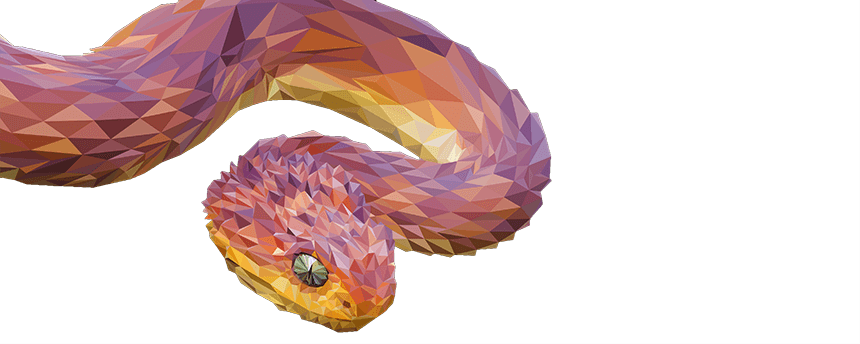
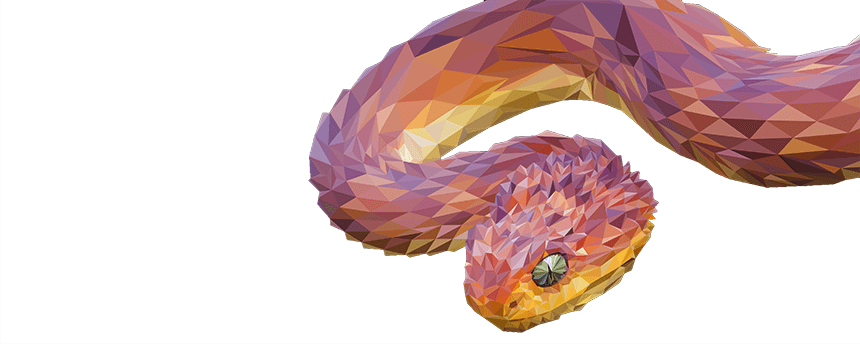
Snake Background fixed

diff --git a/css/style.css b/css/style.css
@@ -39,6 +39,8 @@ h3{
     justify-content: space-evenly;
     align-items: center;
     border-bottom: solid;
+    width: 90%;
+    justify-self: center;
 }
 
 .nav_button {
@@ -88,12 +90,13 @@ h3{
 
 #container_home {
     background: repeating-linear-gradient(0deg, rgba(238, 174, 202, 1) 0%, rgba(148, 187, 233, 1) 100%);
-    padding-left: 20px;
-    padding-right: 20px;
-    height: 100vh;
+    height: 98vh;
     display: grid;
     row-gap: 5px;
-    grid-template-columns: 1fr 90%;
+    padding-left: 20px;
+    padding-right: 20px;
+    padding-bottom: 2vh;
+    grid-template-columns: 1fr 88%;
     grid-template-rows: auto 50px 3fr 2fr;
     grid-template-areas:
         'heu heu'
@@ -110,8 +113,19 @@ h3{
     padding-top: 5%;
 }
 
-#aside_home h2 {
+#aside_home h3 {
+    display: flex;
     margin-bottom: 0px;
+    justify-content: center;
+}
+
+#aside_home ul {
+    margin-top: 8px;
+}
+
+#aside_home li:hover {
+    color: white;
+    text-decoration: underline;
 }
 
 
@@ -167,15 +181,16 @@ h3{
 
 #animal_large {
     grid-area: al;
-    background-color: blue;
+    background-image: url(/img/animals/snake_background.png);
+    background-repeat: no-repeat;
+    background-size: cover;
+    background-position: -14vw;
+    margin-right: -20px;
 }
 
 
 #picture_bottom_large {
     grid-area: pbl;
-    background-image: url(/img/animals/Snake_background.png);
-    background-size: cover;
-    background-repeat: no-repeat;
 }
 
 /* Meny sidans css */
@@ -188,6 +203,7 @@ h3{
     padding-right: 20px;
     row-gap: 5px;
     column-gap: 5px;
+    padding-bottom: 2vh;
     grid-template-rows: auto 50px auto auto auto;
     grid-template-areas:
         'heu'
@@ -197,31 +213,24 @@ h3{
         'des';
 }
 
-#starter {
-    grid-area: str;
+.menu_section{
     min-height: 200px;
     display: flex;
     flex-wrap: wrap;
     justify-content: space-evenly;
     row-gap: 10px;
+}
+
+#starter {
+    grid-area: str;
 }
 
 #maincourse {
     grid-area: mac;
-    min-height: 200px;
-    display: flex;
-    flex-wrap: wrap;
-    justify-content: space-evenly;
-    row-gap: 10px;
 }
 
 #desert {
     grid-area: des;
-    min-height: 200px;
-    display: flex;
-    flex-wrap: wrap;
-    justify-content: space-evenly;
-    row-gap: 10px;
 }
 
 .menu_item{

diff --git a/menu.html b/menu.html
@@ -44,7 +44,7 @@
             </div>
         </nav>
 
-        <section id="starter">
+        <section id="starter" class="menu_section">
             <h2>Starters</h2>
             <article class="menu_item">
                 <img src="/img/food/Purple Splash.jpg" alt="Purple Splash Photo">
@@ -89,7 +89,7 @@
             
         </section>
 
-        <section id="maincourse">
+        <section id="maincourse" class="menu_section">
             <h2>Main Courses</h2>
             <article class="menu_item">
                 <img src="/img/food/Crazy Colors.jpg" alt="Crazy Colors Photo">
@@ -114,7 +114,7 @@
 
         </section>
 
-        <section id="desert">
+        <section id="desert" class="menu_section">
             <h2>Deserts</h2>
             <article class="menu_item">
                 <img src="/img/food/Colored Concrete Wall.jpg" alt="Colored Concrete Wall Photo">

diff --git a/index.html b/index.html
@@ -58,6 +58,10 @@
                 <li>Lizards</li>
                 <li>Animal</li>
                 <li>Animal</li>
+                <li>Animal</li>
+                <li>Animal</li>
+                <li>Animal</li>
+                <li>Animal</li>
             </ul>
         </aside>
 
@@ -69,7 +73,6 @@
                 <article id="animal_photo4"></article>
             </section>
             <article id="animal_large">
-
             </article>
         </section>
 
